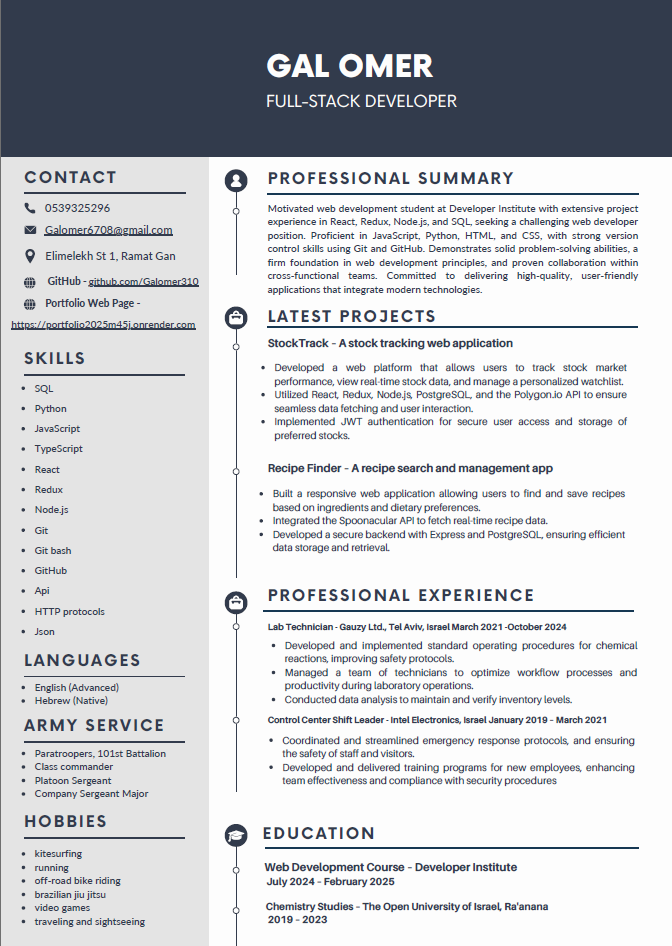
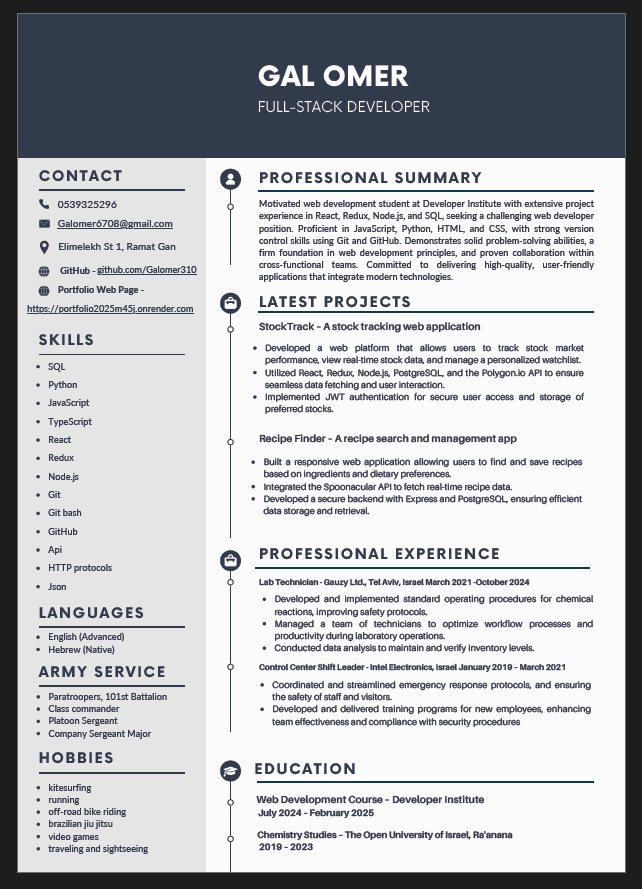
CV adjustment

diff --git a/src/public/style.css b/src/public/style.css
@@ -638,8 +638,8 @@ footer {
 
 .resume-modal-content {
   position: relative;
-  max-width: 95%;
-  max-height: 95%;
+  max-width: 100%;
+  max-height: 100%;
   width: auto;
   height: auto;
 }
